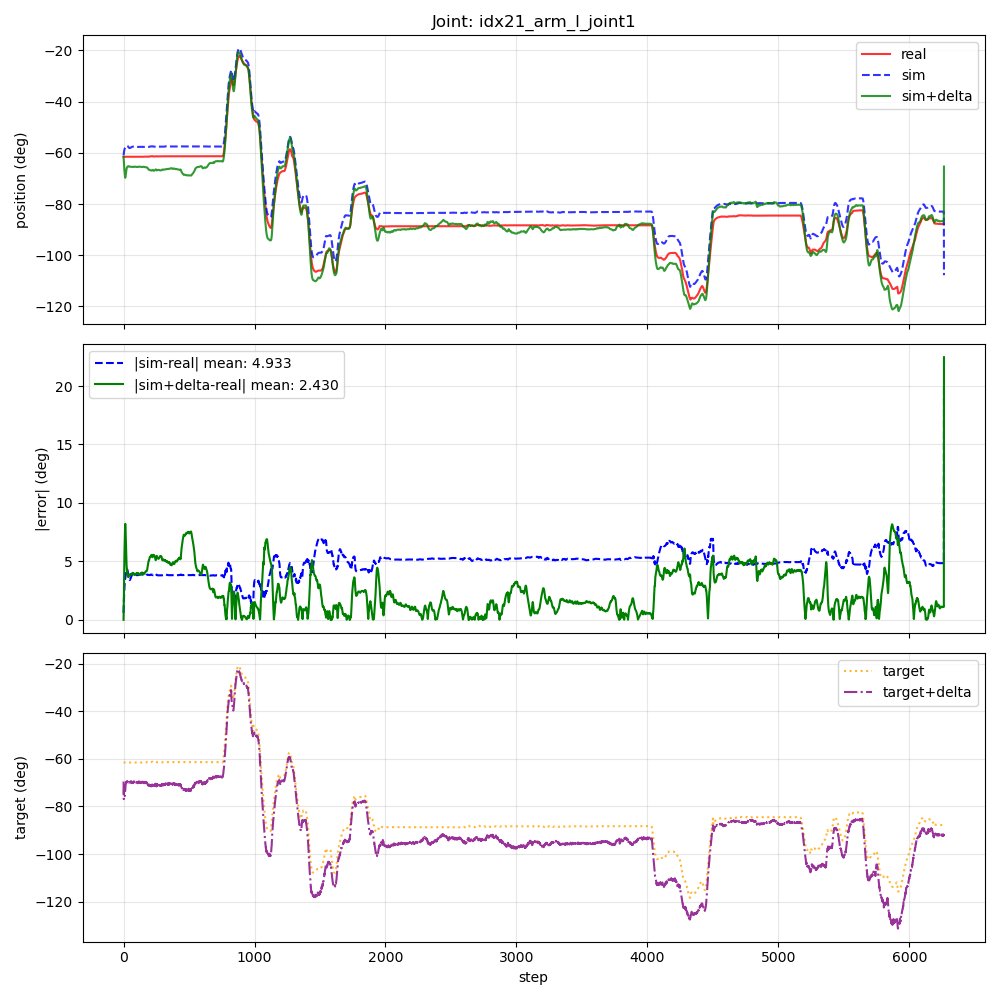
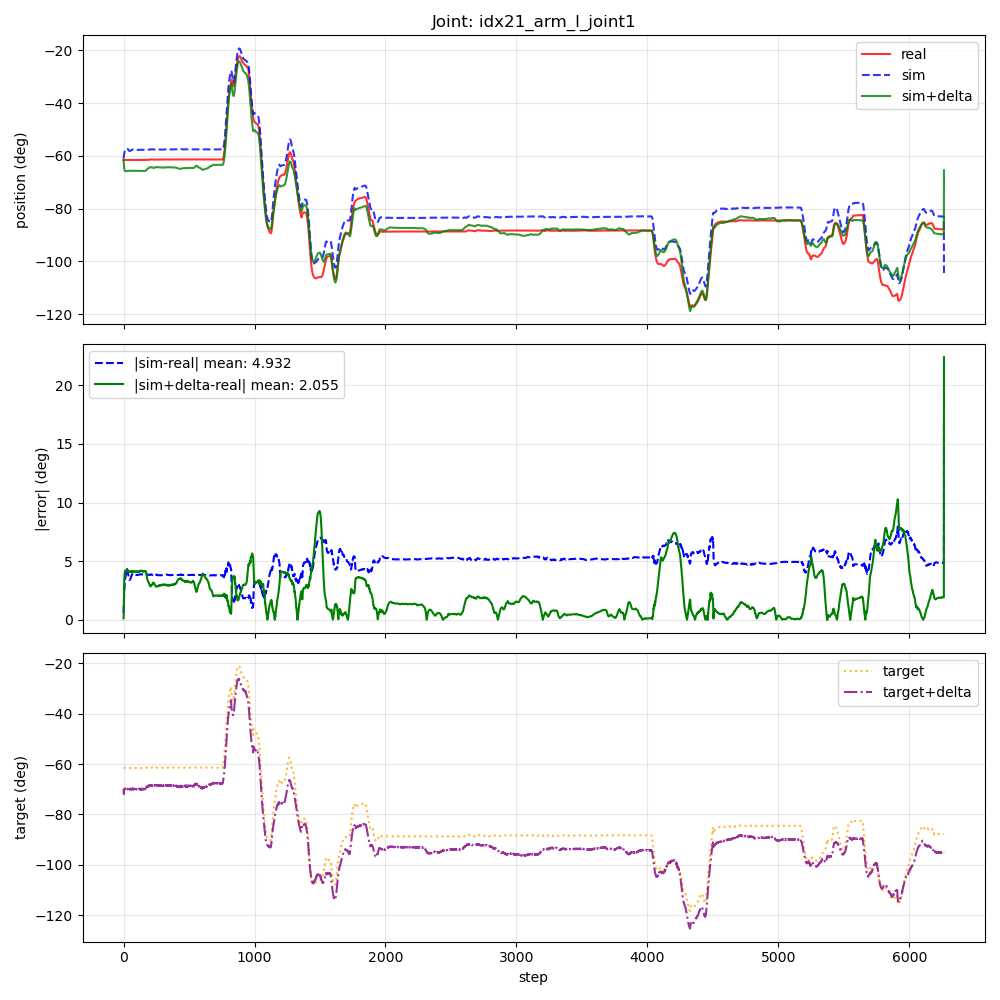
add sensor training and debug

diff --git a/gaponet/source/sim2real/sim2real/tasks/humanoid_agibot/humanoid_agibot_env.py b/gaponet/source/sim2real/sim2real/tasks/humanoid_agibot/humanoid_agibot_env.py
@@ -84,6 +84,8 @@ class HumanoidOperatorEnv(DirectRLEnv):
         self.step_velocity = torch.zeros((self.num_envs, self.num_dofs), device=self.device)
 
         self.action_l2_coef = getattr(self.cfg, "action_l2_coef", 1.0e-3)
+        self.smoothness_coef = getattr(self.cfg, "smoothness_coef", 0.1)
+        self.smoothness_threshold = getattr(self.cfg, "smoothness_threshold", 4e-1)
 
         self.sub_env_sensor_data = torch.zeros((self.num_sub_environments, self.num_sensor_positions, self.cfg.sensor_dim), device=self.device)
         self.sensor_data = torch.zeros((self.num_envs, self.num_sensor_positions, self.cfg.sensor_dim), device=self.device)
@@ -505,7 +507,7 @@ class HumanoidOperatorEnv(DirectRLEnv):
         return - ((36 / (2 * torch.pi)) ** 2) * self._reward_tracking(
             motion_indices=motion_indices,
             time_indices=time_indices,
-        )
+        ) - self.smoothness_coef * self._reward_delta_smoothness()
     
     def _set_wrist_payload_mass(self):
         set_masses(self.payload1, self.wrist_payload_mass, self.payload1._ALL_INDICES) # type: ignore
@@ -858,8 +860,15 @@ class HumanoidOperatorEnv(DirectRLEnv):
         motion_indices, time_indices = self._motion_loader.sample_indices(self.num_sub_environments, randomize_start=True, min_available_length=min_available_length)
         self.motion_indices[:] = motion_indices.repeat_interleave(self.num_sensor_positions, dim=0)
         self.time_indices[:] = time_indices.repeat_interleave(self.num_sensor_positions, dim=0)
-        self.wrist_payload_mass[:] = self._motion_loader.payload_sequence[self.motion_indices] + 0.001
+        if self._motion_loader.hand_marker is None:
+            self.hand_payload_mass[:] = 0.001
+            self.wrist_payload_mass[:] = self._motion_loader.payload_sequence[self.motion_indices] + 0.001
+        else:
+            self.hand_payload_mass[:] = 0.001
+            self.hand_payload_mass[self._ALL_INDICES, self._motion_loader.hand_marker[self.motion_indices]] = self._motion_loader.payload_sequence[self.motion_indices].view(-1) + 0.001
+            self.wrist_payload_mass[:] = 0.001
         self._set_wrist_payload_mass()
+        self._set_hand_payload_mass()
 
     def sample_all_environments(self, env_ids: torch.Tensor | None = None, min_available_length: int = 1):
         if env_ids is None:
@@ -1009,9 +1018,12 @@ class HumanoidOperatorEnv(DirectRLEnv):
         rewards = rewards * unfinished_motion
         dones = (~unfinished_motion) | gap_done
 
+        # Update last_delta_action BEFORE resetting done envs, so that done envs
+        # start the next episode with last_delta_action=0 (set by _reset_idx), not
+        # with the final action that caused the episode to end.
+        self.last_delta_action[:] = self.delta_action
         self.sample_all_environments(env_ids=self._ALL_INDICES[dones])
 
-        self.last_delta_action[:] = self.delta_action
         return None, rewards, dones, {'episode': {
             'joint_pos_diff': torch.abs(
                 self._motion_loader.dof_positions[self.motion_indices, time_indices_step]
@@ -1143,7 +1155,7 @@ class HumanoidOperatorEnv(DirectRLEnv):
             joint_vel = self.robot.data.joint_vel[::self.num_sensor_positions][:, self.motion_joint_ids].repeat_interleave(self.num_sensor_positions, dim=0)
             self.robot.write_joint_state_to_sim(joint_pos, joint_vel * 0, joint_ids=self.motion_joint_ids)
             if self.cfg.delta_sensor_position:
-                self.robot.set_joint_position_target(self.sensor_positions + joint_pos)
+                self.robot.set_joint_position_target(self.sensor_positions + self.robot.data.joint_pos)
             else:
                 self.robot.set_joint_position_target(self.sensor_positions)
 
@@ -1191,6 +1203,7 @@ class HumanoidOperatorEnv(DirectRLEnv):
         current_action = self.delta_action
 
         reward = (current_action - last_action) ** 2
-        reward = torch.clamp(reward - 4e-1, min=0).sum(dim=1)
-        return reward * (~torch.all(torch.abs(last_action) < 1e-2, dim=1)) * 0
+        reward = torch.clamp(reward - self.smoothness_threshold, min=0).sum(dim=1)
+        # Mask out the very first step of each episode (last_action ≈ 0 means no prev action)
+        return reward * (~torch.all(torch.abs(last_action) < 1e-2, dim=1))
     

diff --git a/gaponet/scripts/reinforcement_learning/rsl_rl/train.py b/gaponet/scripts/reinforcement_learning/rsl_rl/train.py
@@ -91,11 +91,19 @@ from datetime import datetime
 import sim2real.tasks.humanoid_operator
 import sim2real.tasks.humanoid_agibot
 from sim2real.rsl_rl.modules import DeepONetActorCritic
+from sim2real.rsl_rl.runners import OperatorRunner, OperatorVanillaRunner
 import rsl_rl.runners.on_policy_runner as on_policy_runner
 
 # Make DeepONetActorCritic discoverable by rsl_rl eval()
 on_policy_runner.DeepONetActorCritic = DeepONetActorCritic
 from rsl_rl.runners import OnPolicyRunner
+
+# Runner class registry
+_RUNNER_REGISTRY = {
+    "OnPolicyRunner": OnPolicyRunner,
+    "OperatorRunner": OperatorRunner,
+    "OperatorVanillaRunner": OperatorVanillaRunner,
+}
 
 from isaaclab.envs import (
     DirectMARLEnv,
@@ -149,6 +157,10 @@ def _load_checkpoint_compatible(runner: OnPolicyRunner, resume_path: str) -> Non
         obs_norm_state = checkpoint.get("obs_norm_state_dict")
         if obs_norm_state is not None and getattr(runner, "obs_normalizer", None) is not None:
             runner.obs_normalizer.load_state_dict(obs_norm_state, strict=False)
+
+        priv_norm_state = checkpoint.get("privileged_obs_norm_state_dict")
+        if priv_norm_state is not None and getattr(runner, "privileged_obs_normalizer", None) is not None:
+            runner.privileged_obs_normalizer.load_state_dict(priv_norm_state, strict=False)
 
         runner.current_learning_iteration = int(checkpoint.get("iteration", checkpoint.get("iter", 0)))
         print("[INFO] Loaded checkpoint (weights only). Optimizer reset.")
@@ -296,8 +308,11 @@ def main(env_cfg: ManagerBasedRLEnvCfg | DirectRLEnvCfg | DirectMARLEnvCfg, agen
     # wrap around environment for rsl-rl
     env = RslRlVecEnvWrapper(env)
 
-    # create runner from rsl-rl
-    runner = OnPolicyRunner(env, agent_cfg.to_dict(), log_dir=log_dir, device=agent_cfg.device)
+    # create runner from rsl-rl, respecting class_name in config
+    runner_class_name = agent_cfg.to_dict().get("class_name", "OnPolicyRunner")
+    runner_class = _RUNNER_REGISTRY.get(runner_class_name, OnPolicyRunner)
+    print(f"[INFO] Using runner class: {runner_class.__name__}")
+    runner = runner_class(env, agent_cfg.to_dict(), log_dir=log_dir, device=agent_cfg.device)
     # write git state to logs
     runner.add_git_repo_to_log(__file__)
     # load the checkpoint

diff --git a/gaponet/source/sim2real/sim2real/rsl_rl/runners/operator_runner.py b/gaponet/source/sim2real/sim2real/rsl_rl/runners/operator_runner.py
@@ -142,15 +142,19 @@ class OperatorRunner(OnPolicyRunner):
 
         self.sensor_model.train()
         for epoch in range(self.model_learning_epochs):
+            # Rebuild buffer fresh each epoch so training always uses recent samples
+            epoch_buffer = []
             with torch.inference_mode():
                 for _ in range(self.model_sample_iterations):
                     model_pairs = self.env.compute_model_pairs(add_noise=True)
                     model_inputs = model_pairs["obs"].to(self.device)
                     model_outputs = model_pairs["sensor"].flatten(1, 2).to(self.device)
-                    replay_buffer.append((model_inputs, model_outputs))
-            
+                    epoch_buffer.append((model_inputs, model_outputs))
+
+                # Merge with cross-epoch replay buffer for stability, then limit size
+                replay_buffer = epoch_buffer + replay_buffer
                 if len(replay_buffer) > self.model_replay_buffer_size:
-                    replay_buffer = replay_buffer[-self.model_replay_buffer_size:]
+                    replay_buffer = replay_buffer[:self.model_replay_buffer_size]
 
                 model_inputs, model_outputs = self.sample_model_pairs(replay_buffer, len(replay_buffer))
                 assert model_inputs.shape[0] % self.model_learning_steps == 0
@@ -317,6 +321,9 @@ class OperatorRunner(OnPolicyRunner):
                         self.env.create_function(function_coords, sensor_data, motion_coords)
                     elif not self.full_trajectory_sampling:
                         self.env.sample_all_environments(min_available_length=num_steps_per_function)
+                    # full_trajectory_sampling=True: no env reset here; episodes carry state across
+                    # rollouts. model_history is only cleared per-env when an episode ends inside
+                    # step_operator → sample_all_environments(env_ids=done_ids).
                     
                     if self.model_based_sensor:
                         sensor_data = self.sensor_model(

diff --git a/gaponet/scripts/diagnostics/evaluate_compensation.py b/gaponet/scripts/diagnostics/evaluate_compensation.py
@@ -192,6 +192,7 @@ def main() -> int:
     # Import Isaac Sim dependent modules (MUST be after AppLauncher)
     import rsl_rl.runners.on_policy_runner as on_policy_runner
     from rsl_rl.runners import OnPolicyRunner
+    from sim2real.rsl_rl.runners import OperatorRunner, OperatorVanillaRunner
     from isaaclab_rl.rsl_rl import RslRlOnPolicyRunnerCfg, RslRlVecEnvWrapper
     from isaaclab_tasks.utils import get_checkpoint_path
     from isaaclab.utils.assets import retrieve_file_path
@@ -347,7 +348,15 @@ def main() -> int:
     env_comp_unwrapped = env_unwrapped
     env_wrapped = RslRlVecEnvWrapper(env)
 
-    ppo_runner = OnPolicyRunner(env_wrapped, agent_cfg.to_dict(), log_dir=None, device=agent_cfg.device)
+    _RUNNER_REGISTRY = {
+        "OnPolicyRunner": OnPolicyRunner,
+        "OperatorRunner": OperatorRunner,
+        "OperatorVanillaRunner": OperatorVanillaRunner,
+    }
+    runner_class_name = agent_cfg.to_dict().get("class_name", "OnPolicyRunner")
+    runner_class = _RUNNER_REGISTRY.get(runner_class_name, OnPolicyRunner)
+    print(f"[INFO] Using runner class: {runner_class.__name__}")
+    ppo_runner = runner_class(env_wrapped, agent_cfg.to_dict(), log_dir=None, device=agent_cfg.device)
     _load_runner_checkpoint(ppo_runner, resume_path, load_optimizer=False)
     policy = ppo_runner.get_inference_policy(device=device)
     use_model_sensor = bool(getattr(agent_cfg, "model_based_sensor", False))

diff --git a/gaponet/scripts/benchmarks/benchmark_rsl_rl.py b/gaponet/scripts/benchmarks/benchmark_rsl_rl.py
@@ -70,6 +70,16 @@ from datetime import datetime
 
 from rsl_rl.runners import OnPolicyRunner
 
+try:
+    from sim2real.rsl_rl.runners import OperatorRunner, OperatorVanillaRunner
+    _RUNNER_REGISTRY = {
+        "OnPolicyRunner": OnPolicyRunner,
+        "OperatorRunner": OperatorRunner,
+        "OperatorVanillaRunner": OperatorVanillaRunner,
+    }
+except ImportError:
+    _RUNNER_REGISTRY = {"OnPolicyRunner": OnPolicyRunner}
+
 from isaaclab.envs import DirectMARLEnvCfg, DirectRLEnvCfg, ManagerBasedRLEnvCfg
 from isaaclab.utils.dict import print_dict
 from isaaclab.utils.io import dump_pickle, dump_yaml
@@ -164,7 +174,10 @@ def main(env_cfg: ManagerBasedRLEnvCfg | DirectRLEnvCfg | DirectMARLEnvCfg, agen
     task_startup_time_end = time.perf_counter_ns()
 
     # create runner from rsl-rl
-    runner = OnPolicyRunner(env, agent_cfg.to_dict(), log_dir=log_dir, device=agent_cfg.device)
+    runner_class_name = agent_cfg.to_dict().get("class_name", "OnPolicyRunner")
+    runner_class = _RUNNER_REGISTRY.get(runner_class_name, OnPolicyRunner)
+    print(f"[INFO] Using runner class: {runner_class.__name__}")
+    runner = runner_class(env, agent_cfg.to_dict(), log_dir=log_dir, device=agent_cfg.device)
     # write git state to logs
     runner.add_git_repo_to_log(__file__)
     # save resume path before creating a new log_dir

diff --git a/gaponet/scripts/reinforcement_learning/rsl_rl/play.py b/gaponet/scripts/reinforcement_learning/rsl_rl/play.py
@@ -50,6 +50,7 @@ import time
 import torch
 
 from rsl_rl.runners import OnPolicyRunner
+from sim2real.rsl_rl.runners import OperatorRunner, OperatorVanillaRunner
 
 from isaaclab.envs import DirectMARLEnv, multi_agent_to_single_agent
 from isaaclab.utils.assets import retrieve_file_path
@@ -110,7 +111,15 @@ def main():
 
     print(f"[INFO]: Loading model checkpoint from: {resume_path}")
     # load previously trained model
-    ppo_runner = OnPolicyRunner(env, agent_cfg.to_dict(), log_dir=None, device=agent_cfg.device)
+    _RUNNER_REGISTRY = {
+        "OnPolicyRunner": OnPolicyRunner,
+        "OperatorRunner": OperatorRunner,
+        "OperatorVanillaRunner": OperatorVanillaRunner,
+    }
+    runner_class_name = agent_cfg.to_dict().get("class_name", "OnPolicyRunner")
+    runner_class = _RUNNER_REGISTRY.get(runner_class_name, OnPolicyRunner)
+    print(f"[INFO] Using runner class: {runner_class.__name__}")
+    ppo_runner = runner_class(env, agent_cfg.to_dict(), log_dir=None, device=agent_cfg.device)
     checkpoint = None
     try:
         checkpoint = torch.load(resume_path, map_location="cpu")

diff --git a/gaponet/source/sim2real/sim2real/tasks/humanoid_agibot/humanoid_agibot_env_cfg.py b/gaponet/source/sim2real/sim2real/tasks/humanoid_agibot/humanoid_agibot_env_cfg.py
@@ -49,7 +49,9 @@ class HumanoidOperatorEnvCfg(DirectRLEnvCfg):
     state_space = 0
 
     # action regularization
-    action_l2_coef = 1.0e-2
+    action_l2_coef = 1        # weight on ||delta_action||^2 inside _reward_tracking
+    smoothness_coef = 10            # weight on _reward_delta_smoothness in total reward
+    smoothness_threshold = 4e-1      # dead-zone threshold (rad^2); changes below this are not penalized
 
     early_termination = True
     termination_height = 0.8
